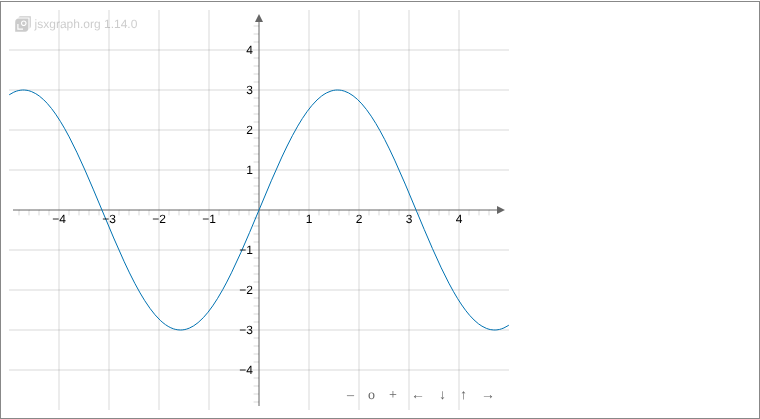
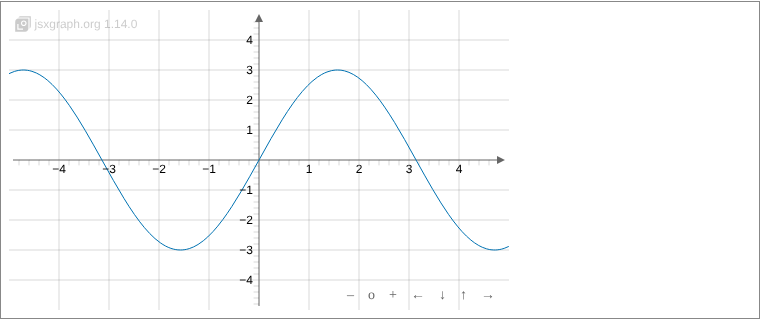
Keep the board in view in the blank-iframe repro
Chrome does not render an off-screen cross-origin iframe, so a board below
the visible area when its tab opens gets one clean size later and draws
correctly; that hid the problem when the page was tried by hand. The repro
page now has the tabs, the board and the status at the top, tells "not yet
laid out" (iframe still 0x0) apart from BLANK (div sized, SVG 0x0), and has
a button that runs 20 in-view trials and reports the count. The other repro
pages also show their demo above the text.

The report states what is known: blank every time (11 of 11) in desktop
Chrome 152 on Windows when the board is in view as its tab opens, 40-63 % of
loads in automated Chromium 141 on Linux, and correct drawing for a board
that is off-screen at that moment. The extension test page says to keep the
tab bar near the top.

Claude-Session: https://claude.ai/code/session_0141Uxex1GxskGvLNxDP5uW3

diff --git a/_jsxgraph-repro/repro/blank-in-hidden-iframe.html b/_jsxgraph-repro/repro/blank-in-hidden-iframe.html
@@ -6,38 +6,25 @@
 <title>JSXGraph: blank board in a hidden iframe</title>
 <style>
   body { font-family: system-ui, sans-serif; line-height: 1.45; margin: 1rem; max-width: 760px; }
-  .tabs button { font-size: 1rem; padding: 0.3rem 0.8rem; }
+  h1 { font-size: 1.3rem; margin: 0 0 0.3rem; }
+  .tabs button, .run button { font-size: 1rem; padding: 0.3rem 0.8rem; }
   .pane { border: 1px solid #888; padding: 0.5rem; margin-top: 0.3rem; }
-  #status { font-family: monospace; white-space: pre-wrap; background: #f4f4f4; padding: 0.5rem; }
+  .status { font-family: monospace; white-space: pre-wrap; background: #f4f4f4; padding: 0.5rem; margin: 0.5rem 0; }
   .blank { color: #b00020; font-weight: bold; }
+  .run { margin-top: 0.5rem; }
+  iframe { width: 500px; max-width: 100%; height: 300px; border: 0; display: block; }
 </style>
 </head>
 <body>
-<h1>Board in a sandboxed iframe in a hidden tab: sometimes blank</h1>
+<h1>Board in a sandboxed iframe in a hidden tab: blank when the tab is opened</h1>
 <p>JSXGraph version: <strong id="version"></strong>. Other versions:
 <a href="?v=1.9.1">1.9.1</a> · <a href="?v=1.9.2">1.9.2</a> ·
 <a href="?v=1.13.3">1.13.3</a> · <a href="?v=1.14.0">1.14.0</a> ·
-<a href="../index.html">overview</a></p>
-<p>A tab pane is <code>display:none</code> when the page loads. It holds a
-sandboxed <code>data:</code> iframe (500×400 px) whose page loads JSXGraph
-and creates a board in a div of 100%×100%. Quarto's jsxgraph extension
-embeds boards this way.</p>
-<ol>
-<li>Open this page in desktop Chrome.</li>
-<li>Click <strong>Tab 2 (board)</strong>. One second later the line below
-reports what the iframe shows.</li>
-<li>Reload the page and repeat a few times. The effect is intermittent.</li>
-</ol>
-<p><strong>Expected:</strong> axes and a sine curve, every time.<br>
-<strong>Seen with 1.9.2 to 1.14.0:</strong> in some page loads the frame stays
-white (the status says BLANK). Clicking Tab 1 and Tab 2 again does not bring
-the board back. With 1.9.1 the board is always drawn, though showing the
-shifted region of the 1.6.0–1.9.1 item listed under "Fixed in later JSXGraph
-versions" on the <a href="../index.html#fixed">overview page</a>.</p>
+<a href="../index.html#p1">overview</a></p>
 
 <div class="tabs"><button type="button" id="tab1">Tab 1</button>
 <button type="button" id="tab2">Tab 2 (board)</button></div>
-<div class="pane" id="pane1">Tab 1: no board here.</div>
+<div class="pane" id="pane1">Tab 1: no board here. Click <strong>Tab 2 (board)</strong>.</div>
 <script>
   var V = (/[?&]v=([0-9.]+)/.exec(location.search) || [])[1] || '1.14.0';
   var CDN = 'https://cdn.jsdelivr.net/npm/jsxgraph@' + V + '/distrib/';
@@ -53,28 +40,120 @@ versions" on the <a href="../index.html#fixed">overview page</a>.</p>
     ' parent.postMessage({container: box.clientWidth + "x" + box.clientHeight,' +
     ' svg: s.getAttribute("width") + "x" + s.getAttribute("height"), bbox: board.getBoundingBox()}, "*"); });' +
     '<\/script></body></html>';
+  var SRC = 'data:text/html;base64,' + btoa(inner);
   // The iframe is part of the parsed page, as a Quarto filter would emit it.
   document.write('<div class="pane" id="pane2" style="display:none">' +
-    '<iframe id="frame" sandbox="allow-scripts" title="JSXGraph board" style="width:500px;max-width:100%;height:400px;border:0;display:block" ' +
-    'src="data:text/html;base64,' + btoa(inner) + '"></iframe></div>');
+    '<iframe id="frame" sandbox="allow-scripts" title="JSXGraph board" src="' + SRC + '"></iframe></div>');
 </script>
-<p id="status">Status: Tab 2 not opened yet.</p>
+<p class="status" id="status">Status: Tab 2 not opened yet.</p>
+<div class="run"><button type="button" id="run20">Run 20 times automatically</button></div>
+<div id="auto"></div>
+<p class="status" id="autostatus" style="display:none"></p>
+
+<p>A tab pane is <code>display:none</code> when the page loads. It holds a
+sandboxed <code>data:</code> iframe (500×300 px) whose page loads JSXGraph
+and creates a board in a div of 100%×100%, as the Quarto jsxgraph extension
+embeds boards.</p>
+<ol>
+<li>Open this page in desktop Chrome and keep the area above in view.</li>
+<li>Click <strong>Tab 2 (board)</strong>. A second later the status line says
+what the iframe shows.</li>
+<li>Or press <strong>Run 20 times automatically</strong>: each trial puts a
+new hidden pane with the same iframe at the top of the page, shows it
+1.5 s later, and reads the board 2 s after that.</li>
+</ol>
+<p><strong>Expected:</strong> axes and a sine curve.<br>
+<strong>Seen with 1.9.2 to 1.14.0:</strong> when the iframe is in view at the
+moment its pane is shown, the frame stays white: the status says BLANK (the
+board's div has its size, its SVG is 0×0). In Chrome 152 on a Windows
+desktop this happened in 11 of 11 automatic trials; in Chromium 141 on
+Linux, under automation, in 40 to 63 % of page loads (an independent
+verification, 30 loads per cell); this page's automatic run there gave 2 of
+20. Clicking Tab 1 and Tab 2 again does not bring the board back; a change
+of the iframe's size does.
+With 1.9.1 the board is drawn, though showing the shifted region of the
+1.6.0–1.9.1 item listed under "Fixed in later JSXGraph versions" on the
+<a href="../index.html#fixed">overview page</a>.</p>
+<p><strong>Why the position matters.</strong> Chrome does not render a
+cross-origin iframe that is outside the visible area. If the pane is opened
+while the iframe is below the visible area, the iframe's window stays 0×0
+until it is scrolled into view, and JSXGraph then receives one clean size
+and draws correctly. The status says "not yet laid out" in that case. This
+is why the problem can look intermittent on longer pages.</p>
+
 <script>
+  function describe(d) {
+    var divW = +d.container.split('x')[0], svgW = +d.svg.split('x')[0];
+    if (divW === 0) return {kind: 'notyet', text: 'Not yet laid out: the iframe is still 0x0 (for example because it is off-screen).'};
+    if (svgW === 0) return {kind: 'blank', text: 'BLANK: the board div has its size, but the SVG is 0x0.'};
+    return {kind: 'drawn', text: 'Drawn.'};
+  }
   function show(n) {
     document.getElementById('pane1').style.display = n === 1 ? 'block' : 'none';
     document.getElementById('pane2').style.display = n === 2 ? 'block' : 'none';
   }
-  function query() { document.getElementById('frame').contentWindow.postMessage('state', '*'); }
+  function query(win) { win.postMessage('state', '*'); }
+  var waiting = null;   // callback for the automatic run
   document.getElementById('tab1').onclick = function () { show(1); };
-  document.getElementById('tab2').onclick = function () { show(2); setTimeout(query, 1000); };
+  document.getElementById('tab2').onclick = function () {
+    show(2);
+    setTimeout(function () { query(document.getElementById('frame').contentWindow); }, 1000);
+  };
   addEventListener('message', function (e) {
-    var blank = e.data.svg.split('x')[0] === '0' && e.data.container.split('x')[0] !== '0';
-    window.RESULT = {blank: blank, container: e.data.container, svg: e.data.svg, bbox: e.data.bbox};
+    var d = e.data, r = describe(d);
+    if (waiting && waiting.win === e.source) { var cb = waiting.cb; waiting = null; cb(d, r); return; }
+    window.RESULT = {kind: r.kind, blank: r.kind === 'blank', container: d.container, svg: d.svg, bbox: d.bbox};
     var status = document.getElementById('status');
-    status.textContent = 'Status: board div ' + e.data.container + ' px, SVG ' + e.data.svg + ' px, bounding box ' +
-      JSON.stringify(e.data.bbox) + (blank ? '\nBLANK: the SVG has no size although the div has.' : '\nDrawn.');
-    status.className = blank ? 'blank' : '';
+    status.textContent = 'Status: board div ' + d.container + ' px, SVG ' + d.svg + ' px, bounding box ' +
+      JSON.stringify(d.bbox) + '\n' + r.text;
+    status.className = 'status' + (r.kind === 'blank' ? ' blank' : '');
   });
+
+  // Automatic in-view trials: fresh hidden pane + iframe at the top, show after 1.5 s, read 2 s later.
+  function trial(done) {
+    var auto = document.getElementById('auto');
+    auto.innerHTML = '';
+    var pane = document.createElement('div');
+    pane.className = 'pane';
+    pane.style.display = 'none';
+    var frame = document.createElement('iframe');
+    frame.setAttribute('sandbox', 'allow-scripts');
+    frame.title = 'JSXGraph board, automatic trial';
+    frame.src = SRC;
+    pane.appendChild(frame);
+    auto.appendChild(pane);
+    setTimeout(function () {
+      pane.style.display = 'block';
+      setTimeout(function () {
+        waiting = {win: frame.contentWindow, cb: done};
+        query(frame.contentWindow);
+      }, 2000);
+    }, 1500);
+  }
+  document.getElementById('run20').onclick = function () {
+    var button = this, out = document.getElementById('autostatus'), n = 20, i = 0, counts = {blank: 0, drawn: 0, notyet: 0}, lines = [];
+    button.disabled = true;
+    show(1);
+    out.style.display = 'block';
+    scrollTo(0, 0);
+    (function next() {
+      if (i === n) {
+        window.AUTO = counts;
+        out.textContent = 'Blank in ' + counts.blank + ' of ' + n + ' (drawn ' + counts.drawn + ', not yet laid out ' + counts.notyet +
+          '), JSXGraph ' + V + '.\n' + lines.join('\n');
+        out.className = 'status' + (counts.blank ? ' blank' : '');
+        button.disabled = false;
+        return;
+      }
+      i += 1;
+      out.textContent = 'Trial ' + i + ' of ' + n + ' running …\n' + lines.join('\n');
+      trial(function (d, r) {
+        counts[r.kind] += 1;
+        lines.push('trial ' + i + ': div ' + d.container + ', SVG ' + d.svg + ': ' + r.kind);
+        next();
+      });
+    })();
+  };
 </script>
 </body>
 </html>

diff --git a/_jsxgraph-repro/repro/unit-origin-hidden.html b/_jsxgraph-repro/repro/unit-origin-hidden.html
@@ -22,6 +22,10 @@
 <a href="?v=1.9.1">1.9.1</a> · <a href="?v=1.13.3">1.13.3</a> ·
 <a href="?v=1.14.0">1.14.0</a> · <a href="?v=1.14.0&amp;visible">1.14.0, created visible (reference)</a> ·
 <a href="../index.html">overview</a></p>
+<p><button type="button" id="show">Show</button></p>
+<div id="wrap" style="display:none"><div id="box" class="jxgbox" style="width:100%;height:300px"></div></div>
+<p id="status"></p>
+
 <p>The board is defined by <code>unitX: 50, unitY: 50, originX: 250,
 originY: 150</code> (no bounding box) and created in a div of
 <code>width: 100%; height: 300px</code> whose parent is
@@ -36,9 +40,7 @@ screen position (300, 100), after showing and after the resize.<br>
 <strong>Seen:</strong> after showing, unitX is Infinity and P's position is
 NaN; after the next resize the board uses the default bounding box
 [−5, 5, 5, −5] instead of the given units and origin.</p>
-<p><button type="button" id="show">Show</button></p>
-<div id="wrap" style="display:none"><div id="box" class="jxgbox" style="width:100%;height:300px"></div></div>
-<p id="status"></p>
+
 <script>
   document.getElementById('version').textContent = V + (/[?&]visible/.test(location.search) ? ', created visible' : '');
   if (/[?&]visible/.test(location.search)) document.getElementById('wrap').style.display = 'block';

diff --git a/_jsxgraph-repro/repro/functiongraph-interval-hidden.html b/_jsxgraph-repro/repro/functiongraph-interval-hidden.html
@@ -24,6 +24,10 @@
 <a href="?v=1.13.1">1.13.1</a> · <a href="?v=1.13.2">1.13.2</a> ·
 <a href="?v=1.14.0">1.14.0</a> · <a href="?v=1.13.1&amp;visible">1.13.1, created visible</a> ·
 <a href="../index.html">overview</a></p>
+<p><button type="button" id="show">Show</button></p>
+<div id="pane" style="display:none"><div id="box" class="jxgbox" style="width:100%;height:300px"></div></div>
+<p id="status"></p>
+
 <p>The board is created in a div of <code>width: 100%; height: 300px</code>
 whose parent is <code>display:none</code>. The script creates a point A, then
 <code>board.create('functiongraph', [f, -2, 3])</code> (an interval), then a
@@ -33,9 +37,7 @@ point B. Press <strong>Show</strong>.</p>
 throws <code>TypeError: Cannot read properties of undefined (reading
 'usrCoords')</code>, so the rest of the script does not run. Fixed in 1.13.2.
 The same board created visible (last link above) is fine.</p>
-<p><button type="button" id="show">Show</button></p>
-<div id="pane" style="display:none"><div id="box" class="jxgbox" style="width:100%;height:300px"></div></div>
-<p id="status"></p>
+
 <script>
   document.getElementById('version').textContent = V + (VISIBLE ? ', created visible' : '');
   if (VISIBLE) document.getElementById('pane').style.display = 'block';

diff --git a/_jsxgraph-repro/repro/stale-svg-after-quick-resize.html b/_jsxgraph-repro/repro/stale-svg-after-quick-resize.html
@@ -23,6 +23,10 @@
 <a href="?v=1.9.1">1.9.1</a> · <a href="?v=1.9.2">1.9.2</a> ·
 <a href="?v=1.13.3">1.13.3</a> · <a href="?v=1.14.0">1.14.0</a> ·
 <a href="../index.html">overview</a></p>
+<p><button type="button" id="run">Run</button></p>
+<div id="wrap" style="width:300px"><div id="box" class="jxgbox" style="width:100%;height:300px"></div></div>
+<p id="status">Status: press Run.</p>
+
 <p>No hiding involved. Press <strong>Run</strong>: the board's container
 grows from 300 px to 400 px and, before JSXGraph's 10 ms timer has fired,
 to 500 px, while the main thread is busy for 30 ms.</p>
@@ -30,9 +34,7 @@ to 500 px, while the main thread is busy for 30 ms.</p>
 <strong>Seen with 1.9.2 to 1.14.0:</strong> the SVG stays 400 px wide in the
 500 px frame; the right part of the frame stays empty, and the status says
 STALE. With 1.9.1 the SVG is 500 px wide.</p>
-<p><button type="button" id="run">Run</button></p>
-<div id="wrap" style="width:300px"><div id="box" class="jxgbox" style="width:100%;height:300px"></div></div>
-<p id="status">Status: press Run.</p>
+
 <script>
   document.getElementById('version').textContent = V;
   var board = JXG.JSXGraph.initBoard('box', {boundingbox: [-5, 5, 5, -5], axis: true});

diff --git a/_jsxgraph-repro/repro/exception-stops-resize.html b/_jsxgraph-repro/repro/exception-stops-resize.html
@@ -21,6 +21,9 @@
 <a href="?v=1.9.1">1.9.1</a> · <a href="?v=1.13.3">1.13.3</a> ·
 <a href="?v=1.14.0">1.14.0</a> · <a href="?v=1.14.0&amp;noerror">1.14.0 without the error (reference)</a> ·
 <a href="../index.html">overview</a></p>
+<div id="wrap" style="width:600px;max-width:100%"><div id="box" class="jxgbox" style="width:100%;height:300px"></div></div>
+<p id="status"></p>
+
 <p>A visible board with a text whose content function throws once, during
 the second of four automatic container resizes (600 → 500 → 400 → 700 →
 300 px, one every 400 ms). Nothing to click.</p>
@@ -30,8 +33,7 @@ next resizes again.<br>
 keeps its size; the status marks every later step "not following". Without
 the error (reference link) every step follows. The only trace is a
 <code>console.log</code> of the error (1.11.0 and later).</p>
-<div id="wrap" style="width:600px;max-width:100%"><div id="box" class="jxgbox" style="width:100%;height:300px"></div></div>
-<p id="status"></p>
+
 <script>
   document.getElementById('version').textContent = V + (/[?&]noerror/.test(location.search) ? ', without the error' : '');
   var board = JXG.JSXGraph.initBoard('box', {boundingbox: [-5, 5, 5, -5], axis: true});

diff --git a/_jsxgraph-repro/repro/blank-after-quick-show.html b/_jsxgraph-repro/repro/blank-after-quick-show.html
@@ -23,6 +23,9 @@
 <a href="?v=1.13.3">1.13.3</a> · <a href="?v=1.14.0">1.14.0</a> ·
 <a href="?v=1.14.0&amp;slow">1.14.0, shown 500 ms later (reference)</a> ·
 <a href="../index.html">overview</a></p>
+<div id="pane" style="display:none"><div id="box" class="jxgbox" style="width:100%;height:300px"></div></div>
+<p id="status">Status: waiting…</p>
+
 <p>No iframe here. The board is
 created in a div whose parent is <code>display:none</code>. The board's
 ResizeObserver reports 0×0 once and JSXGraph starts its 10 ms timer
@@ -34,8 +37,7 @@ often do when a tab opens.</p>
 frame; the status says BLANK. Reload if it is drawn: the timing depends on
 the machine's load. With 1.9.1 the board is drawn. The reference link shows the same
 board shown 500 ms after load instead: drawn, also with 1.14.0.</p>
-<div id="pane" style="display:none"><div id="box" class="jxgbox" style="width:100%;height:300px"></div></div>
-<p id="status">Status: waiting…</p>
+
 <script>
   document.getElementById('version').textContent = V + (/[?&]slow/.test(location.search) ? ', shown 500 ms later' : '');
   var board = JXG.JSXGraph.initBoard('box', {boundingbox: [-5, 5, 5, -5], axis: true});
